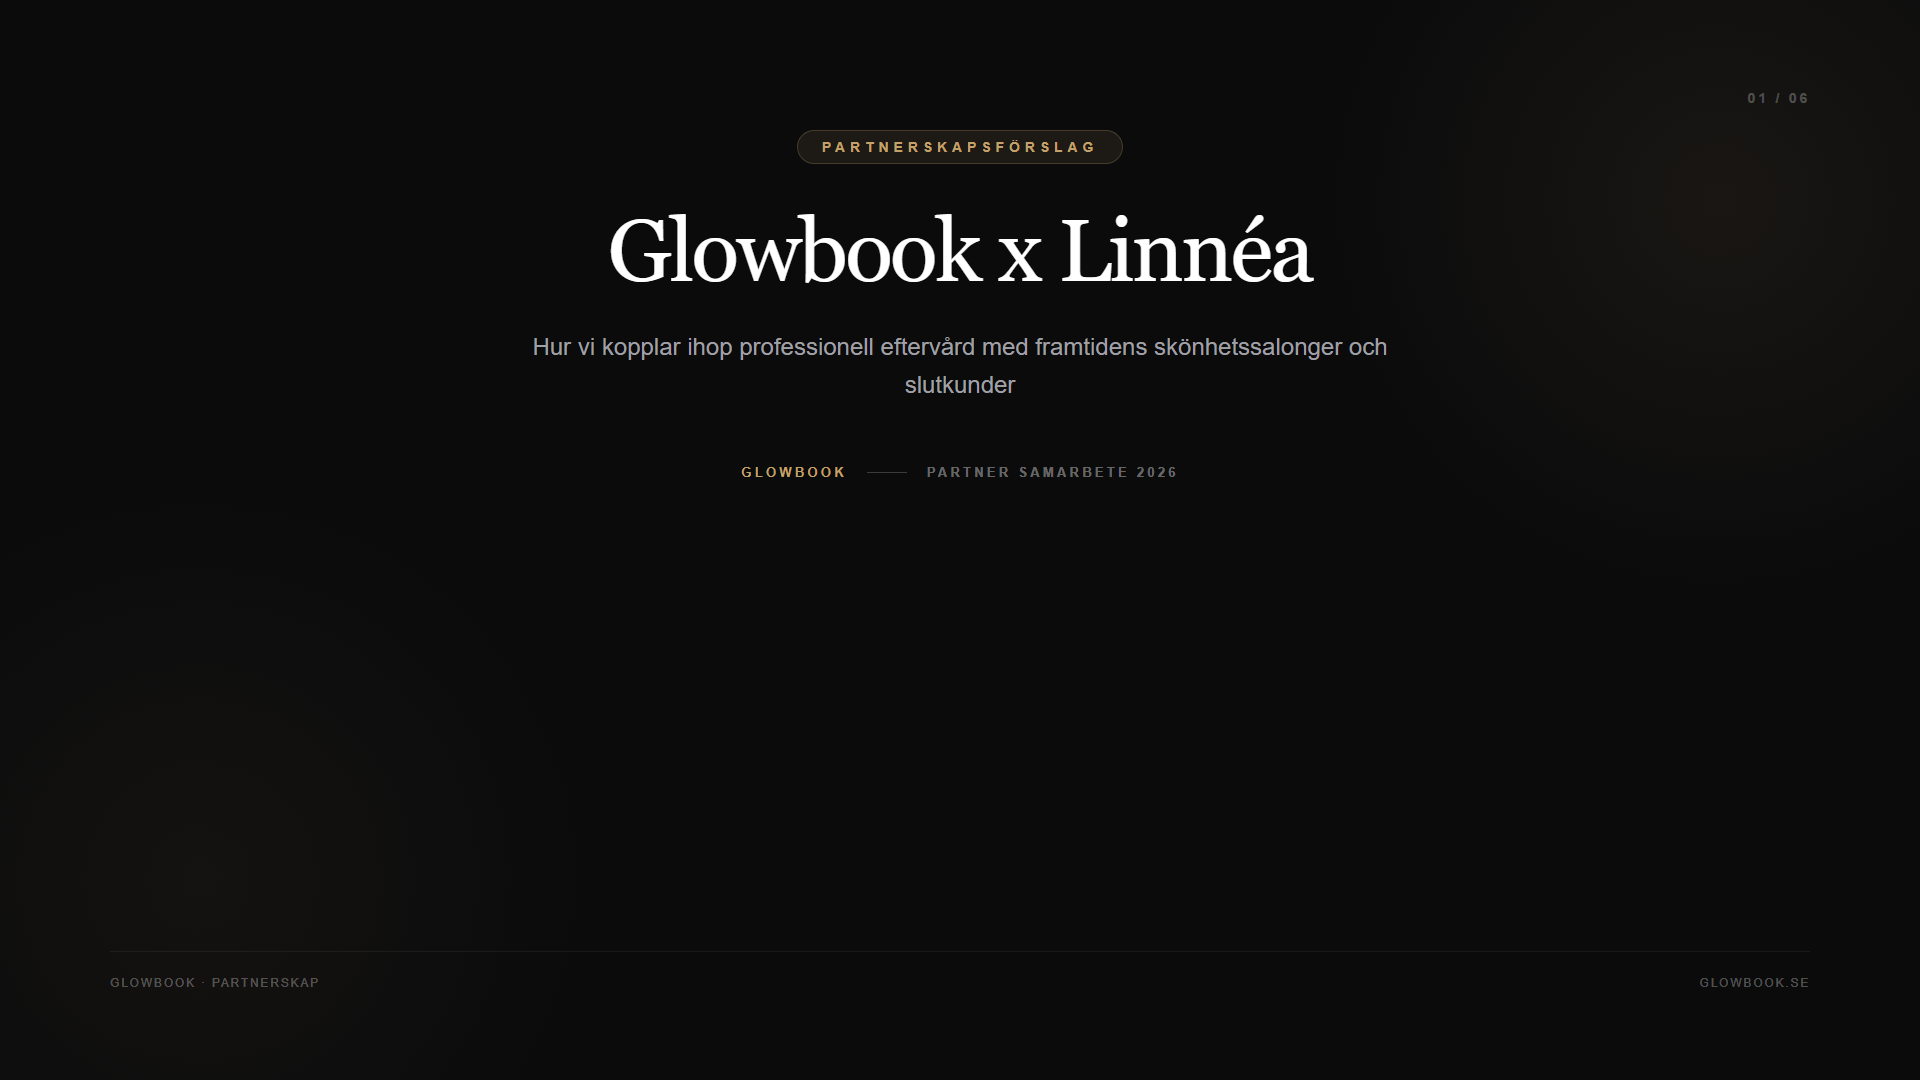
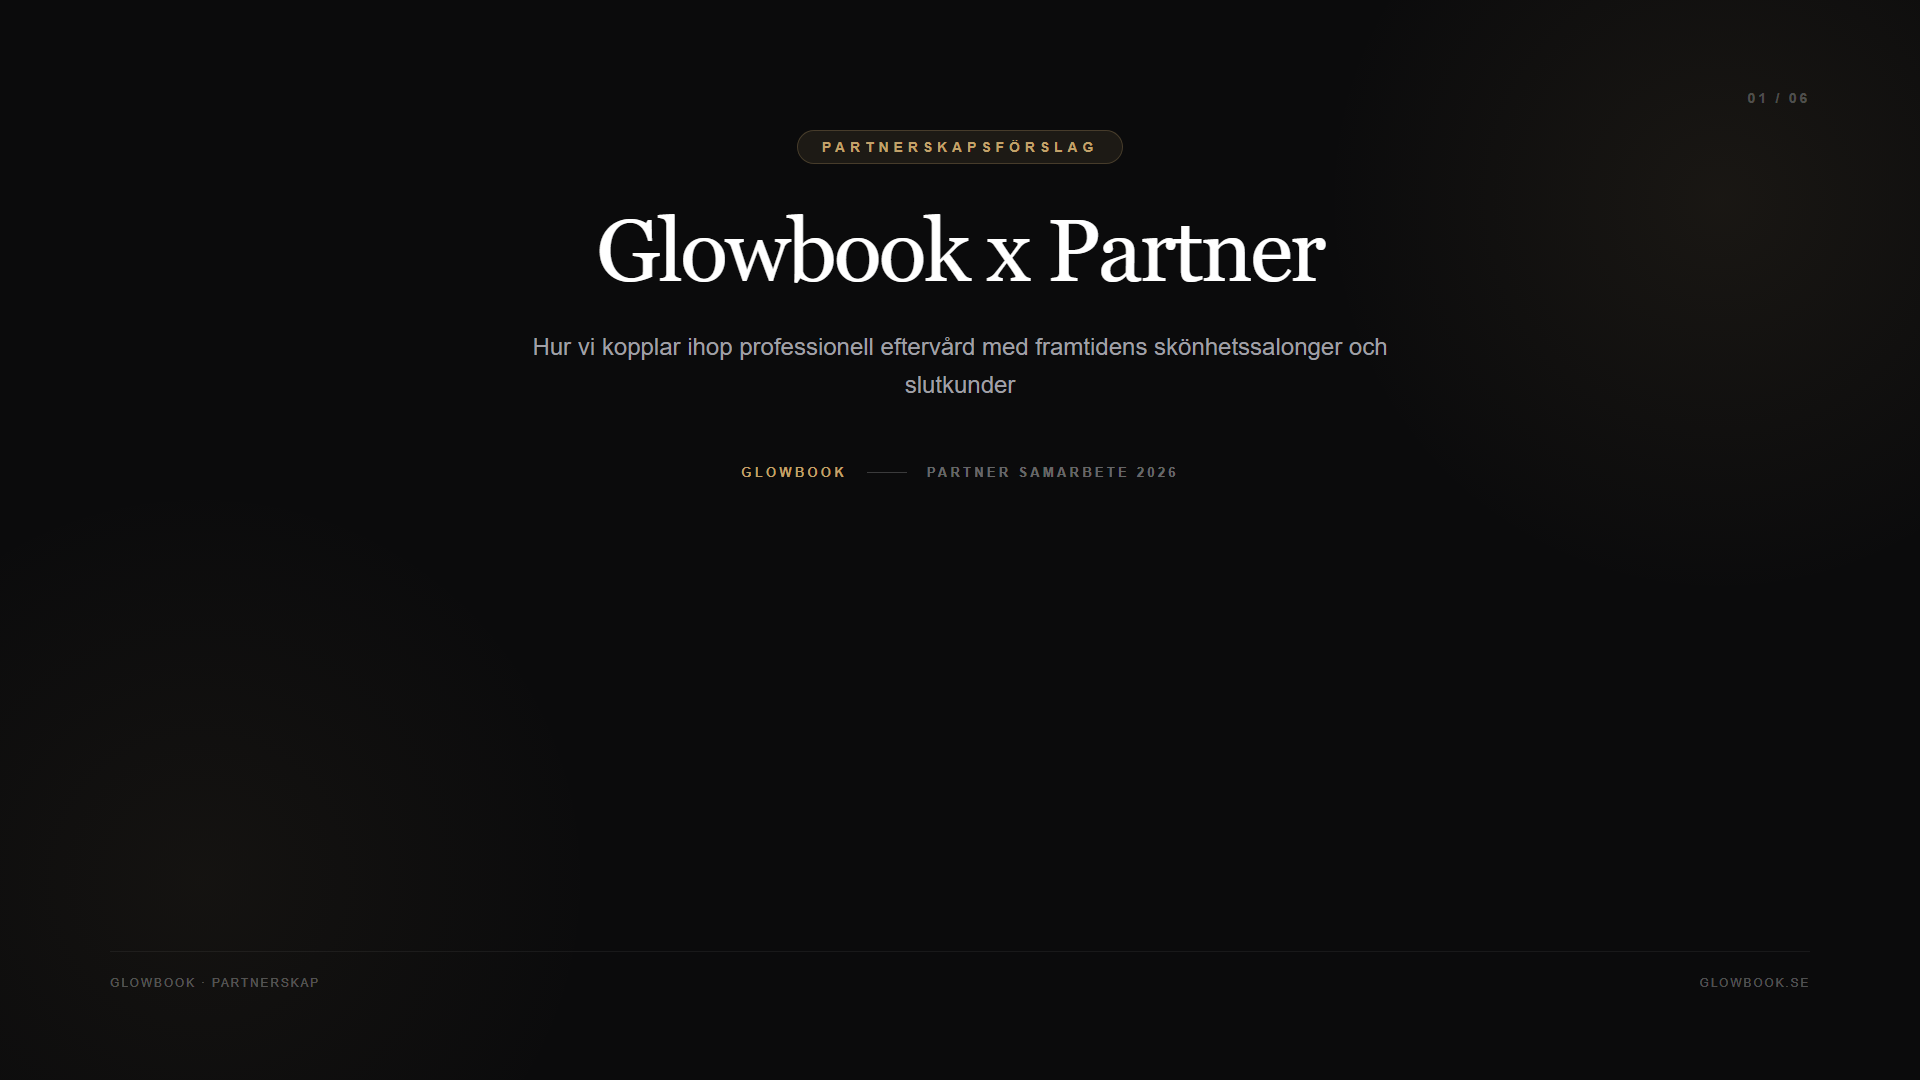
Neutralize partner presentation slides to Glowbook x Partner for multi-brand use

Changed region(s): [[0.3125, 0.1833, 0.6875, 0.275]]

diff --git a/public/presentations/linnea/slide_02.html b/public/presentations/linnea/slide_02.html
@@ -287,9 +287,9 @@
                     </div>
                 
                     <div class="luxury-card">
-                        <div class="card-badge">VINSTEN FÖR LINNÉA</div>
+                        <div class="card-badge">VINSTEN FÖR VARUMÄRKET</div>
                         <h3 class="card-heading">Självklart förstahandsval</h3>
-                        <p class="card-desc">Dina produkter etableras som standarden för professionell eftervård hos både salonger och slutkonsumenter.</p>
+                        <p class="card-desc">Era produkter etableras som standarden för professionell eftervård hos både salonger och slutkonsumenter.</p>
                     </div>
                 
             </div>

diff --git a/public/presentations/linnea/slide_01.html b/public/presentations/linnea/slide_01.html
@@ -269,7 +269,7 @@
         
             <div class="cover-container">
                 <div class="cover-badge">PARTNERSKAPSFÖRSLAG</div>
-                <h1 class="cover-title">Glowbook x Linnéa</h1>
+                <h1 class="cover-title">Glowbook x Partner</h1>
                 <p class="cover-subtitle">Hur vi kopplar ihop professionell eftervård med framtidens skönhetssalonger och slutkunder</p>
                 <div class="cover-footer">
                     <div class="glowbook-brand">GLOWBOOK</div>
